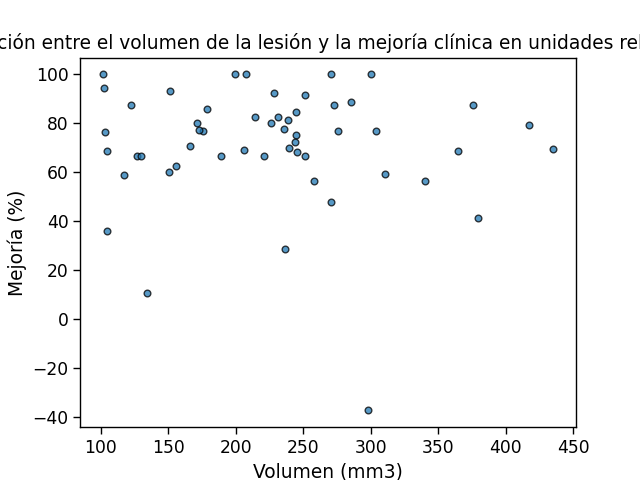
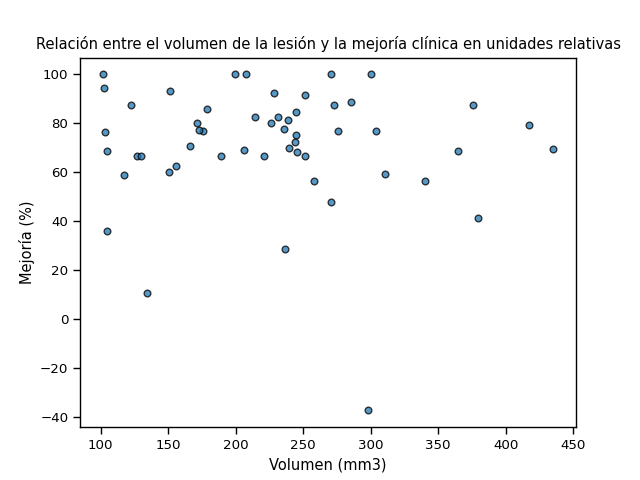
Ajustar dimensiones de gráficos

diff --git a/Generador_informe/graficos_prueba4.py b/Generador_informe/graficos_prueba4.py
@@ -23,10 +23,17 @@ mejoria_abs = df['Mejoria_Abs_HT']
 mejoria_rel = df['Mejoria_Rel_HT']
 
     # DISEÑO 1
-sns.set_context("paper", font_scale=1.4)
+sns.set_context("paper", font_scale=1.1)
 #plt.xticks(rotation=20)
 plt.title("Relación entre el volumen de la lesión y la mejoría clínica en unidades relativas")
-bplot1 = sns.scatterplot(volumen,mejoria_rel, edgecolor='black',linewidth=1,alpha=0.75)
+x = volumen
+y = mejoria_rel
+bplot1 = sns.scatterplot(x,y, edgecolor='black',linewidth=1,alpha=0.75)
+
+# Destaco el punto del paciente sobre el que estoy haciendo el informe
+x1 = 270.5222
+y1= 47.61904762
+bplot1 = sns.scatterplot(x1,y1, color = 'red', edgecolor='black',linewidth=1,alpha=0.75)
 
 # Añado etiquetas a los ejes x e y
 bplot1.set(ylabel='Mejoría (%)')
@@ -37,7 +44,8 @@ bplot1.figure.savefig('./Graficos/figure1.png')
 bplot1.remove()
 
 plt.title("Relación entre el volumen de la lesión y la mejoría clínica en unidades absolutas")
-bplot1 = sns.scatterplot(volumen,mejoria_abs, edgecolor='black',linewidth=1,alpha=0.75)
+y = mejoria_abs
+bplot1 = sns.scatterplot(x,y, edgecolor='black',linewidth=1,alpha=0.75)
 
 # Añado etiquetas a los ejes x e y
 bplot1.set(ylabel='Mejoría')
